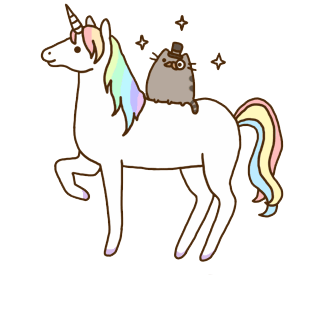
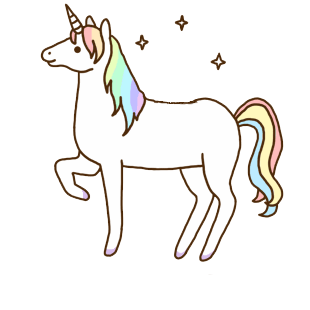
Make pusheen bounce

Changed region(s): [[0.4645, 0.1161, 0.6387, 0.3774]]

diff --git a/index.html b/index.html
@@ -1,6 +1,6 @@
 <!DOCTYPE html>
 
-<html> 
+<html>
 	<head>
 		<meta name="viewport" content="width=device-width, initial-scale=1.0, user-scalable=no">
 		<link href="https://fonts.googleapis.com/css?family=Bungee" rel="stylesheet">
@@ -11,20 +11,21 @@
 		<div id="button-container">
 			<h1>Unicorn Clicker!</h1>
 			<button id='button' onclick="unicornClick()">
-				<img id="unicorn" src="unicorn.png"> 
-				<img id="poop" class="ground-poop" src="poop.png"> 
+				<img id="unicorn" src="unicorn.png">
+				<img id="pusheen" src="pusheen.png" width="100">
+				<img id="poop" class="ground-poop" src="poop.png">
 		  	    <div id="counter"></div>
-		  	</button> 	
+		  	</button>
 		</div>
 	 	<div class="redYellow"> </div>
 	 	<div class="yellowBlue"> </div>
-     	<div class="blueRed"> </div>
+    <div class="blueRed"> </div>
 	 	<div class="redYellow"> </div>
 		<div class="yellowBlue"> </div>
-     	<div class="blueRed"> </div>
+    <div class="blueRed"> </div>
 	 	<div class="redYellow"> </div>
 		<div class="yellowBlue"> </div>
-     	<div class="blueRed"> </div>
+    <div class="blueRed"> </div>
 		<script src='js/unicorn.js'></script>
 	</body>
 </html>

diff --git a/css/style.css b/css/style.css
@@ -3,8 +3,8 @@ body, html {
   width: 100%;
 }
 
-body { 
-	 
+body {
+
 	 text-align: center;
 }
 #button-container{
@@ -15,6 +15,38 @@ body {
 #unicorn {
 	width: 555px;
 }
+
+#pusheen {
+  position: absolute;
+  top: 76px;
+  left: 265px;
+}
+
+#pusheen.bounce {
+  -webkit-animation-name: bounce;
+  -webkit-animation-duration: 0.5s;
+  -webkit-animation-delay: 0.2s;
+  animation-name: bounce;
+  animation-duration: 0.5s;
+  animation-delay: 0.2s;
+  -ms-animation-name: bounce;
+  -ms-animation-duration: 0.5s;
+  -ms-animation-delay: 0.2s;
+  -webkit-transition-delay: 0.2s;
+  transition-delay: 0.2s;
+  -ms-transform: rotate(7deg)
+  -webkit-transform: rotate(7deg);
+  transform: rotate(7deg);
+}
+
+@-webkit-keyframes bounce {
+  0% {top:40px;}
+}
+
+@-moz-keyframes bounce {
+  0% {top:40px;}
+}
+
 .start-poop {
 	width: 100px;
 	position: absolute;
@@ -56,7 +88,7 @@ body {
 	opacity: 0;
 	transition: top 300ms, opacity 300ms;
 }
-h1 
+h1
 {
 	font-family: 'Bungee', cursive;
 }

diff --git a/js/unicorn.js b/js/unicorn.js
@@ -1,15 +1,20 @@
-var unicorn = {}; 
+var unicorn = {};
 unicorn.counter = 0;
 var counterdiv = document.getElementById('counter')
 counterdiv.innerHTML = unicorn.counter
 function unicornClick() {
 	var snd = new Audio("sounds/fart.wav");
 	snd.play();
-	var poopImg = document.getElementById("poop")
+	var poopImg = document.getElementById("poop");
+  var pusheen = document.getElementById("pusheen");
 	poopImg.className = "start-poop";
+  pusheen.className = "bounce";
 	unicorn.counter++
 	counterdiv.innerHTML = unicorn.counter
 	setTimeout(function(){
 		poopImg.className = "ground-poop";
-	},99)
+	},99);
+  setTimeout(function() {
+    pusheen.className = "";
+  }, 500);
 }
